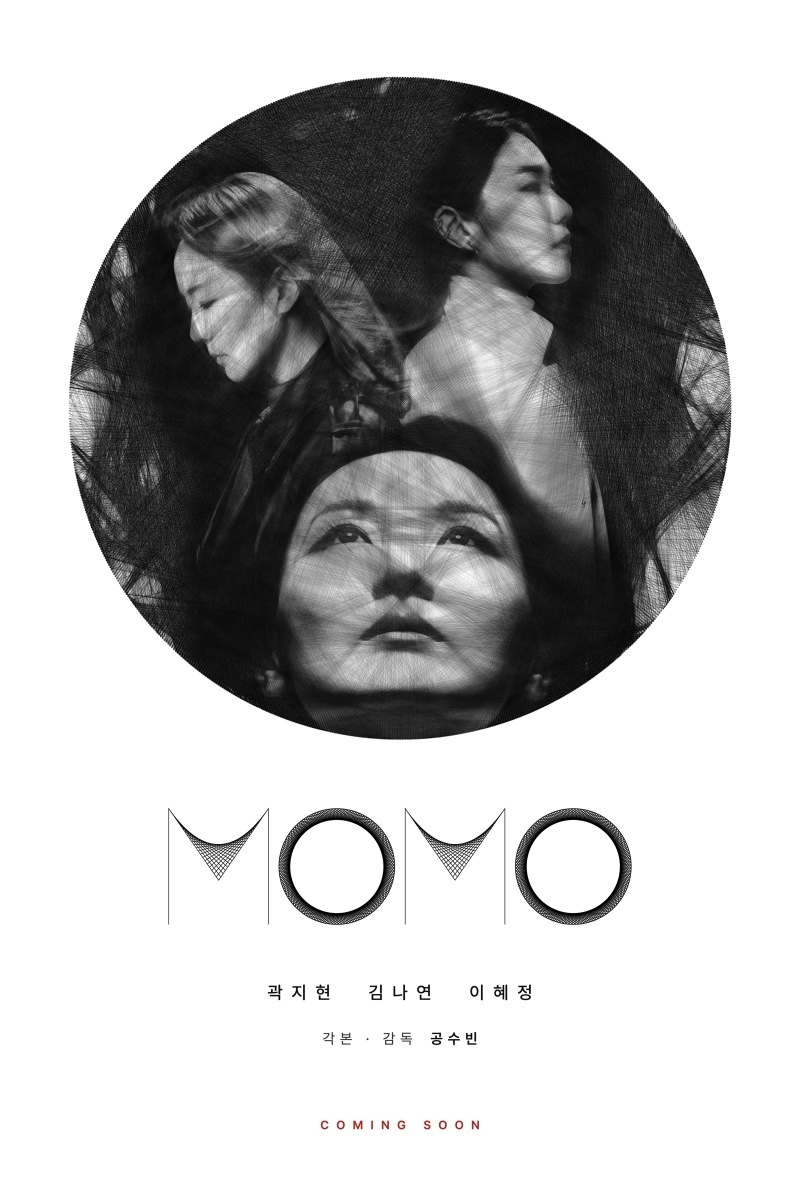
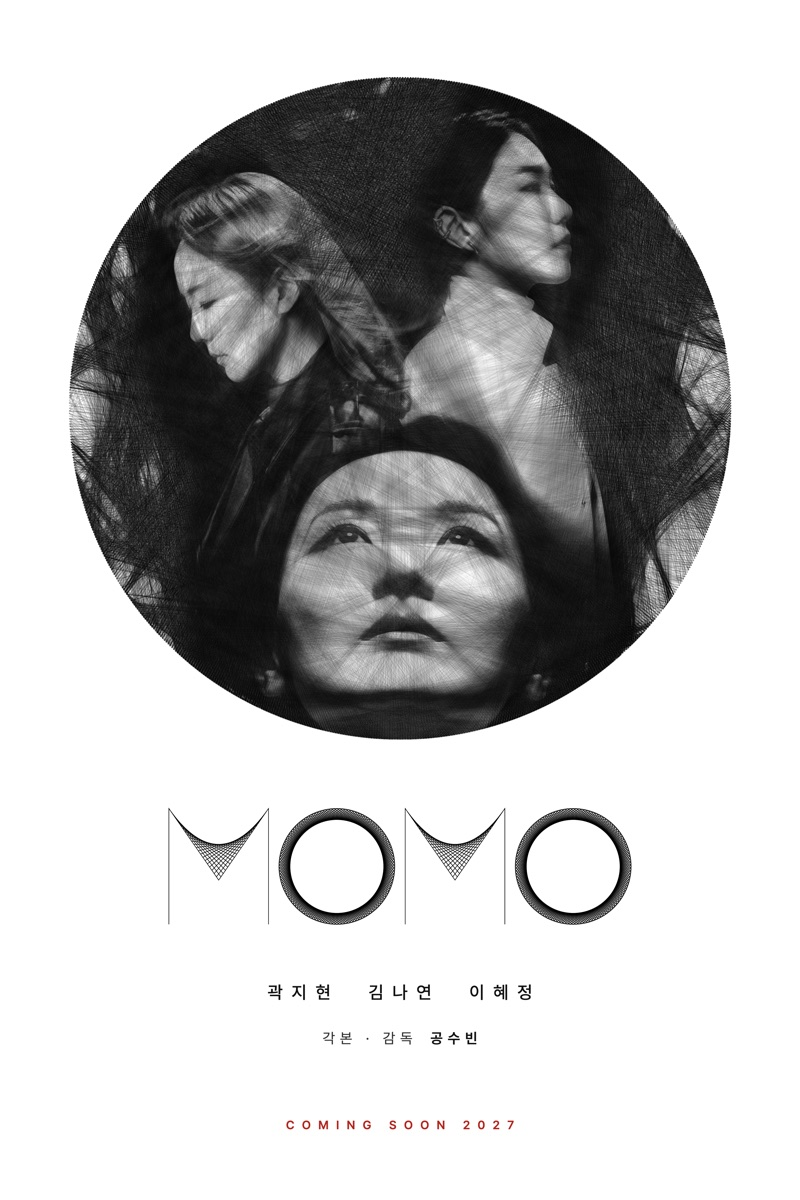
Coming Soon 2027, posters updated

diff --git a/index.html b/index.html
@@ -4,9 +4,9 @@
 <meta charset="utf-8">
 <meta name="viewport" content="width=device-width,initial-scale=1">
 <title>MOMO</title>
-<meta name="description" content="MOMO · KWAK JIHYUN  KIM NAYEON  LEE HYEJEONG · Written &amp; Directed by KONG SUBIN · Coming Soon">
+<meta name="description" content="MOMO · KWAK JIHYUN  KIM NAYEON  LEE HYEJEONG · Written &amp; Directed by KONG SUBIN · Coming Soon 2027">
 <meta property="og:title" content="MOMO">
-<meta property="og:description" content="KWAK JIHYUN · KIM NAYEON · LEE HYEJEONG · Written &amp; Directed by KONG SUBIN · COMING SOON">
+<meta property="og:description" content="KWAK JIHYUN · KIM NAYEON · LEE HYEJEONG · Written &amp; Directed by KONG SUBIN · COMING SOON 2027">
 <meta property="og:image" content="https://momothefilm.com/assets/og.jpg">
 <meta property="og:url" content="https://momothefilm.com/">
 <meta property="og:type" content="video.movie">
@@ -194,7 +194,7 @@ footer .small{margin-top:clamp(50px,7vw,90px);color:#aaa;display:flex;justify-co
   <svg xmlns="http://www.w3.org/2000/svg" viewBox="-40.0 -40.0 4070.0 1080.0" class="logo-hero" role="img" aria-label="MOMO"><g fill="none" stroke="#000000" stroke-width="5" stroke-linejoin="miter" stroke-miterlimit="12" stroke-linecap="butt"><path d="M0.00,1000.00 L0.00,0.00 L430.00,618.03 L860.00,0.00 L860.00,1000.00"/><path d="M410.45,589.94 L840.45,28.09"/><path d="M390.91,561.85 L820.91,56.18"/><path d="M371.36,533.76 L801.36,84.28"/><path d="M351.82,505.66 L781.82,112.37"/><path d="M332.27,477.57 L762.27,140.46"/><path d="M312.73,449.48 L742.73,168.55"/><path d="M293.18,421.39 L723.18,196.65"/><path d="M273.64,393.29 L703.64,224.74"/><path d="M254.09,365.20 L684.09,252.83"/><path d="M234.55,337.11 L664.55,280.92"/><path d="M215.00,309.02 L645.00,309.02"/><path d="M195.45,280.92 L625.45,337.11"/><path d="M175.91,252.83 L605.91,365.20"/><path d="M156.36,224.74 L586.36,393.29"/><path d="M136.82,196.65 L566.82,421.39"/><path d="M117.27,168.55 L547.27,449.48"/><path d="M97.73,140.46 L527.73,477.57"/><path d="M78.18,112.37 L508.18,505.66"/><path d="M58.64,84.28 L488.64,533.76"/><path d="M39.09,56.18 L469.09,561.85"/><path d="M19.55,28.09 L449.55,589.94"/><path d="M1450.00,0.00 L1476.17,0.69 L1502.26,2.74 L1528.22,6.16 L1553.96,10.93 L1579.41,17.04 L1604.51,24.47 L1629.18,33.21 L1653.37,43.23 L1677.00,54.50 L1700.00,66.99 L1722.32,80.66 L1743.89,95.49 L1764.66,111.43 L1784.57,128.43 L1803.55,146.45 L1821.57,165.43 L1838.57,185.34 L1854.51,206.11 L1869.34,227.68 L1883.01,250.00 L1895.50,273.00 L1906.77,296.63 L1916.79,320.82 L1925.53,345.49 L1932.96,370.59 L1939.07,396.04 L1943.84,421.78 L1947.26,447.74 L1949.31,473.83 L1950.00,500.00 L1949.31,526.17 L1947.26,552.26 L1943.84,578.22 L1939.07,603.96 L1932.96,629.41 L1925.53,654.51 L1916.79,679.18 L1906.77,703.37 L1895.50,727.00 L1883.01,750.00 L1869.34,772.32 L1854.51,793.89 L1838.57,814.66 L1821.57,834.57 L1803.55,853.55 L1784.57,871.57 L1764.66,888.57 L1743.89,904.51 L1722.32,919.34 L1700.00,933.01 L1677.00,945.50 L1653.37,956.77 L1629.18,966.79 L1604.51,975.53 L1579.41,982.96 L1553.96,989.07 L1528.22,993.84 L1502.26,997.26 L1476.17,999.31 L1450.00,1000.00 L1423.83,999.31 L1397.74,997.26 L1371.78,993.84 L1346.04,989.07 L1320.59,982.96 L1295.49,975.53 L1270.82,966.79 L1246.63,956.77 L1223.00,945.50 L1200.00,933.01 L1177.68,919.34 L1156.11,904.51 L1135.34,888.57 L1115.43,871.57 L1096.45,853.55 L1078.43,834.57 L1061.43,814.66 L1045.49,793.89 L1030.66,772.32 L1016.99,750.00 L1004.50,727.00 L993.23,703.37 L983.21,679.18 L974.47,654.51 L967.04,629.41 L960.93,603.96 L956.16,578.22 L952.74,552.26 L950.69,526.17 L950.00,500.00 L950.69,473.83 L952.74,447.74 L956.16,421.78 L960.93,396.04 L967.04,370.59 L974.47,345.49 L983.21,320.82 L993.23,296.63 L1004.50,273.00 L1016.99,250.00 L1030.66,227.68 L1045.49,206.11 L1061.43,185.34 L1078.43,165.43 L1096.45,146.45 L1115.43,128.43 L1135.34,111.43 L1156.11,95.49 L1177.68,80.66 L1200.00,66.99 L1223.00,54.50 L1246.63,43.23 L1270.82,33.21 L1295.49,24.47 L1320.59,17.04 L1346.04,10.93 L1371.78,6.16 L1397.74,2.74 L1423.83,0.69 L1450.00,0.00"/><path d="M1450.00,0.00 L1925.53,345.49"/><path d="M1476.17,0.69 L1932.96,370.59"/><path d="M1502.26,2.74 L1939.07,396.04"/><path d="M1528.22,6.16 L1943.84,421.78"/><path d="M1553.96,10.93 L1947.26,447.74"/><path d="M1579.41,17.04 L1949.31,473.83"/><path d="M1604.51,24.47 L1950.00,500.00"/><path d="M1629.18,33.21 L1949.31,526.17"/><path d="M1653.37,43.23 L1947.26,552.26"/><path d="M1677.00,54.50 L1943.84,578.22"/><path d="M1700.00,66.99 L1939.07,603.96"/><path d="M1722.32,80.66 L1932.96,629.41"/><path d="M1743.89,95.49 L1925.53,654.51"/><path d="M1764.66,111.43 L1916.79,679.18"/><path d="M1784.57,128.43 L1906.77,703.37"/><path d="M1803.55,146.45 L1895.50,727.00"/><path d="M1821.57,165.43 L1883.01,750.00"/><path d="M1838.57,185.34 L1869.34,772.32"/><path d="M1854.51,206.11 L1854.51,793.89"/><path d="M1869.34,227.68 L1838.57,814.66"/><path d="M1883.01,250.00 L1821.57,834.57"/><path d="M1895.50,273.00 L1803.55,853.55"/><path d="M1906.77,296.63 L1784.57,871.57"/><path d="M1916.79,320.82 L1764.66,888.57"/><path d="M1925.53,345.49 L1743.89,904.51"/><path d="M1932.96,370.59 L1722.32,919.34"/><path d="M1939.07,396.04 L1700.00,933.01"/><path d="M1943.84,421.78 L1677.00,945.50"/><path d="M1947.26,447.74 L1653.37,956.77"/><path d="M1949.31,473.83 L1629.18,966.79"/><path d="M1950.00,500.00 L1604.51,975.53"/><path d="M1949.31,526.17 L1579.41,982.96"/><path d="M1947.26,552.26 L1553.96,989.07"/><path d="M1943.84,578.22 L1528.22,993.84"/><path d="M1939.07,603.96 L1502.26,997.26"/><path d="M1932.96,629.41 L1476.17,999.31"/><path d="M1925.53,654.51 L1450.00,1000.00"/><path d="M1916.79,679.18 L1423.83,999.31"/><path d="M1906.77,703.37 L1397.74,997.26"/><path d="M1895.50,727.00 L1371.78,993.84"/><path d="M1883.01,750.00 L1346.04,989.07"/><path d="M1869.34,772.32 L1320.59,982.96"/><path d="M1854.51,793.89 L1295.49,975.53"/><path d="M1838.57,814.66 L1270.82,966.79"/><path d="M1821.57,834.57 L1246.63,956.77"/><path d="M1803.55,853.55 L1223.00,945.50"/><path d="M1784.57,871.57 L1200.00,933.01"/><path d="M1764.66,888.57 L1177.68,919.34"/><path d="M1743.89,904.51 L1156.11,904.51"/><path d="M1722.32,919.34 L1135.34,888.57"/><path d="M1700.00,933.01 L1115.43,871.57"/><path d="M1677.00,945.50 L1096.45,853.55"/><path d="M1653.37,956.77 L1078.43,834.57"/><path d="M1629.18,966.79 L1061.43,814.66"/><path d="M1604.51,975.53 L1045.49,793.89"/><path d="M1579.41,982.96 L1030.66,772.32"/><path d="M1553.96,989.07 L1016.99,750.00"/><path d="M1528.22,993.84 L1004.50,727.00"/><path d="M1502.26,997.26 L993.23,703.37"/><path d="M1476.17,999.31 L983.21,679.18"/><path d="M1450.00,1000.00 L974.47,654.51"/><path d="M1423.83,999.31 L967.04,629.41"/><path d="M1397.74,997.26 L960.93,603.96"/><path d="M1371.78,993.84 L956.16,578.22"/><path d="M1346.04,989.07 L952.74,552.26"/><path d="M1320.59,982.96 L950.69,526.17"/><path d="M1295.49,975.53 L950.00,500.00"/><path d="M1270.82,966.79 L950.69,473.83"/><path d="M1246.63,956.77 L952.74,447.74"/><path d="M1223.00,945.50 L956.16,421.78"/><path d="M1200.00,933.01 L960.93,396.04"/><path d="M1177.68,919.34 L967.04,370.59"/><path d="M1156.11,904.51 L974.47,345.49"/><path d="M1135.34,888.57 L983.21,320.82"/><path d="M1115.43,871.57 L993.23,296.63"/><path d="M1096.45,853.55 L1004.50,273.00"/><path d="M1078.43,834.57 L1016.99,250.00"/><path d="M1061.43,814.66 L1030.66,227.68"/><path d="M1045.49,793.89 L1045.49,206.11"/><path d="M1030.66,772.32 L1061.43,185.34"/><path d="M1016.99,750.00 L1078.43,165.43"/><path d="M1004.50,727.00 L1096.45,146.45"/><path d="M993.23,703.37 L1115.43,128.43"/><path d="M983.21,679.18 L1135.34,111.43"/><path d="M974.47,654.51 L1156.11,95.49"/><path d="M967.04,629.41 L1177.68,80.66"/><path d="M960.93,603.96 L1200.00,66.99"/><path d="M956.16,578.22 L1223.00,54.50"/><path d="M952.74,552.26 L1246.63,43.23"/><path d="M950.69,526.17 L1270.82,33.21"/><path d="M950.00,500.00 L1295.49,24.47"/><path d="M950.69,473.83 L1320.59,17.04"/><path d="M952.74,447.74 L1346.04,10.93"/><path d="M956.16,421.78 L1371.78,6.16"/><path d="M960.93,396.04 L1397.74,2.74"/><path d="M967.04,370.59 L1423.83,0.69"/><path d="M974.47,345.49 L1450.00,0.00"/><path d="M983.21,320.82 L1476.17,0.69"/><path d="M993.23,296.63 L1502.26,2.74"/><path d="M1004.50,273.00 L1528.22,6.16"/><path d="M1016.99,250.00 L1553.96,10.93"/><path d="M1030.66,227.68 L1579.41,17.04"/><path d="M1045.49,206.11 L1604.51,24.47"/><path d="M1061.43,185.34 L1629.18,33.21"/><path d="M1078.43,165.43 L1653.37,43.23"/><path d="M1096.45,146.45 L1677.00,54.50"/><path d="M1115.43,128.43 L1700.00,66.99"/><path d="M1135.34,111.43 L1722.32,80.66"/><path d="M1156.11,95.49 L1743.89,95.49"/><path d="M1177.68,80.66 L1764.66,111.43"/><path d="M1200.00,66.99 L1784.57,128.43"/><path d="M1223.00,54.50 L1803.55,146.45"/><path d="M1246.63,43.23 L1821.57,165.43"/><path d="M1270.82,33.21 L1838.57,185.34"/><path d="M1295.49,24.47 L1854.51,206.11"/><path d="M1320.59,17.04 L1869.34,227.68"/><path d="M1346.04,10.93 L1883.01,250.00"/><path d="M1371.78,6.16 L1895.50,273.00"/><path d="M1397.74,2.74 L1906.77,296.63"/><path d="M1423.83,0.69 L1916.79,320.82"/><path d="M2040.00,1000.00 L2040.00,0.00 L2470.00,618.03 L2900.00,0.00 L2900.00,1000.00"/><path d="M2450.45,589.94 L2880.45,28.09"/><path d="M2430.91,561.85 L2860.91,56.18"/><path d="M2411.36,533.76 L2841.36,84.28"/><path d="M2391.82,505.66 L2821.82,112.37"/><path d="M2372.27,477.57 L2802.27,140.46"/><path d="M2352.73,449.48 L2782.73,168.55"/><path d="M2333.18,421.39 L2763.18,196.65"/><path d="M2313.64,393.29 L2743.64,224.74"/><path d="M2294.09,365.20 L2724.09,252.83"/><path d="M2274.55,337.11 L2704.55,280.92"/><path d="M2255.00,309.02 L2685.00,309.02"/><path d="M2235.45,280.92 L2665.45,337.11"/><path d="M2215.91,252.83 L2645.91,365.20"/><path d="M2196.36,224.74 L2626.36,393.29"/><path d="M2176.82,196.65 L2606.82,421.39"/><path d="M2157.27,168.55 L2587.27,449.48"/><path d="M2137.73,140.46 L2567.73,477.57"/><path d="M2118.18,112.37 L2548.18,505.66"/><path d="M2098.64,84.28 L2528.64,533.76"/><path d="M2079.09,56.18 L2509.09,561.85"/><path d="M2059.55,28.09 L2489.55,589.94"/><path d="M3490.00,0.00 L3516.17,0.69 L3542.26,2.74 L3568.22,6.16 L3593.96,10.93 L3619.41,17.04 L3644.51,24.47 L3669.18,33.21 L3693.37,43.23 L3717.00,54.50 L3740.00,66.99 L3762.32,80.66 L3783.89,95.49 L3804.66,111.43 L3824.57,128.43 L3843.55,146.45 L3861.57,165.43 L3878.57,185.34 L3894.51,206.11 L3909.34,227.68 L3923.01,250.00 L3935.50,273.00 L3946.77,296.63 L3956.79,320.82 L3965.53,345.49 L3972.96,370.59 L3979.07,396.04 L3983.84,421.78 L3987.26,447.74 L3989.31,473.83 L3990.00,500.00 L3989.31,526.17 L3987.26,552.26 L3983.84,578.22 L3979.07,603.96 L3972.96,629.41 L3965.53,654.51 L3956.79,679.18 L3946.77,703.37 L3935.50,727.00 L3923.01,750.00 L3909.34,772.32 L3894.51,793.89 L3878.57,814.66 L3861.57,834.57 L3843.55,853.55 L3824.57,871.57 L3804.66,888.57 L3783.89,904.51 L3762.32,919.34 L3740.00,933.01 L3717.00,945.50 L3693.37,956.77 L3669.18,966.79 L3644.51,975.53 L3619.41,982.96 L3593.96,989.07 L3568.22,993.84 L3542.26,997.26 L3516.17,999.31 L3490.00,1000.00 L3463.83,999.31 L3437.74,997.26 L3411.78,993.84 L3386.04,989.07 L3360.59,982.96 L3335.49,975.53 L3310.82,966.79 L3286.63,956.77 L3263.00,945.50 L3240.00,933.01 L3217.68,919.34 L3196.11,904.51 L3175.34,888.57 L3155.43,871.57 L3136.45,853.55 L3118.43,834.57 L3101.43,814.66 L3085.49,793.89 L3070.66,772.32 L3056.99,750.00 L3044.50,727.00 L3033.23,703.37 L3023.21,679.18 L3014.47,654.51 L3007.04,629.41 L3000.93,603.96 L2996.16,578.22 L2992.74,552.26 L2990.69,526.17 L2990.00,500.00 L2990.69,473.83 L2992.74,447.74 L2996.16,421.78 L3000.93,396.04 L3007.04,370.59 L3014.47,345.49 L3023.21,320.82 L3033.23,296.63 L3044.50,273.00 L3056.99,250.00 L3070.66,227.68 L3085.49,206.11 L3101.43,185.34 L3118.43,165.43 L3136.45,146.45 L3155.43,128.43 L3175.34,111.43 L3196.11,95.49 L3217.68,80.66 L3240.00,66.99 L3263.00,54.50 L3286.63,43.23 L3310.82,33.21 L3335.49,24.47 L3360.59,17.04 L3386.04,10.93 L3411.78,6.16 L3437.74,2.74 L3463.83,0.69 L3490.00,0.00"/><path d="M3490.00,0.00 L3965.53,345.49"/><path d="M3516.17,0.69 L3972.96,370.59"/><path d="M3542.26,2.74 L3979.07,396.04"/><path d="M3568.22,6.16 L3983.84,421.78"/><path d="M3593.96,10.93 L3987.26,447.74"/><path d="M3619.41,17.04 L3989.31,473.83"/><path d="M3644.51,24.47 L3990.00,500.00"/><path d="M3669.18,33.21 L3989.31,526.17"/><path d="M3693.37,43.23 L3987.26,552.26"/><path d="M3717.00,54.50 L3983.84,578.22"/><path d="M3740.00,66.99 L3979.07,603.96"/><path d="M3762.32,80.66 L3972.96,629.41"/><path d="M3783.89,95.49 L3965.53,654.51"/><path d="M3804.66,111.43 L3956.79,679.18"/><path d="M3824.57,128.43 L3946.77,703.37"/><path d="M3843.55,146.45 L3935.50,727.00"/><path d="M3861.57,165.43 L3923.01,750.00"/><path d="M3878.57,185.34 L3909.34,772.32"/><path d="M3894.51,206.11 L3894.51,793.89"/><path d="M3909.34,227.68 L3878.57,814.66"/><path d="M3923.01,250.00 L3861.57,834.57"/><path d="M3935.50,273.00 L3843.55,853.55"/><path d="M3946.77,296.63 L3824.57,871.57"/><path d="M3956.79,320.82 L3804.66,888.57"/><path d="M3965.53,345.49 L3783.89,904.51"/><path d="M3972.96,370.59 L3762.32,919.34"/><path d="M3979.07,396.04 L3740.00,933.01"/><path d="M3983.84,421.78 L3717.00,945.50"/><path d="M3987.26,447.74 L3693.37,956.77"/><path d="M3989.31,473.83 L3669.18,966.79"/><path d="M3990.00,500.00 L3644.51,975.53"/><path d="M3989.31,526.17 L3619.41,982.96"/><path d="M3987.26,552.26 L3593.96,989.07"/><path d="M3983.84,578.22 L3568.22,993.84"/><path d="M3979.07,603.96 L3542.26,997.26"/><path d="M3972.96,629.41 L3516.17,999.31"/><path d="M3965.53,654.51 L3490.00,1000.00"/><path d="M3956.79,679.18 L3463.83,999.31"/><path d="M3946.77,703.37 L3437.74,997.26"/><path d="M3935.50,727.00 L3411.78,993.84"/><path d="M3923.01,750.00 L3386.04,989.07"/><path d="M3909.34,772.32 L3360.59,982.96"/><path d="M3894.51,793.89 L3335.49,975.53"/><path d="M3878.57,814.66 L3310.82,966.79"/><path d="M3861.57,834.57 L3286.63,956.77"/><path d="M3843.55,853.55 L3263.00,945.50"/><path d="M3824.57,871.57 L3240.00,933.01"/><path d="M3804.66,888.57 L3217.68,919.34"/><path d="M3783.89,904.51 L3196.11,904.51"/><path d="M3762.32,919.34 L3175.34,888.57"/><path d="M3740.00,933.01 L3155.43,871.57"/><path d="M3717.00,945.50 L3136.45,853.55"/><path d="M3693.37,956.77 L3118.43,834.57"/><path d="M3669.18,966.79 L3101.43,814.66"/><path d="M3644.51,975.53 L3085.49,793.89"/><path d="M3619.41,982.96 L3070.66,772.32"/><path d="M3593.96,989.07 L3056.99,750.00"/><path d="M3568.22,993.84 L3044.50,727.00"/><path d="M3542.26,997.26 L3033.23,703.37"/><path d="M3516.17,999.31 L3023.21,679.18"/><path d="M3490.00,1000.00 L3014.47,654.51"/><path d="M3463.83,999.31 L3007.04,629.41"/><path d="M3437.74,997.26 L3000.93,603.96"/><path d="M3411.78,993.84 L2996.16,578.22"/><path d="M3386.04,989.07 L2992.74,552.26"/><path d="M3360.59,982.96 L2990.69,526.17"/><path d="M3335.49,975.53 L2990.00,500.00"/><path d="M3310.82,966.79 L2990.69,473.83"/><path d="M3286.63,956.77 L2992.74,447.74"/><path d="M3263.00,945.50 L2996.16,421.78"/><path d="M3240.00,933.01 L3000.93,396.04"/><path d="M3217.68,919.34 L3007.04,370.59"/><path d="M3196.11,904.51 L3014.47,345.49"/><path d="M3175.34,888.57 L3023.21,320.82"/><path d="M3155.43,871.57 L3033.23,296.63"/><path d="M3136.45,853.55 L3044.50,273.00"/><path d="M3118.43,834.57 L3056.99,250.00"/><path d="M3101.43,814.66 L3070.66,227.68"/><path d="M3085.49,793.89 L3085.49,206.11"/><path d="M3070.66,772.32 L3101.43,185.34"/><path d="M3056.99,750.00 L3118.43,165.43"/><path d="M3044.50,727.00 L3136.45,146.45"/><path d="M3033.23,703.37 L3155.43,128.43"/><path d="M3023.21,679.18 L3175.34,111.43"/><path d="M3014.47,654.51 L3196.11,95.49"/><path d="M3007.04,629.41 L3217.68,80.66"/><path d="M3000.93,603.96 L3240.00,66.99"/><path d="M2996.16,578.22 L3263.00,54.50"/><path d="M2992.74,552.26 L3286.63,43.23"/><path d="M2990.69,526.17 L3310.82,33.21"/><path d="M2990.00,500.00 L3335.49,24.47"/><path d="M2990.69,473.83 L3360.59,17.04"/><path d="M2992.74,447.74 L3386.04,10.93"/><path d="M2996.16,421.78 L3411.78,6.16"/><path d="M3000.93,396.04 L3437.74,2.74"/><path d="M3007.04,370.59 L3463.83,0.69"/><path d="M3014.47,345.49 L3490.00,0.00"/><path d="M3023.21,320.82 L3516.17,0.69"/><path d="M3033.23,296.63 L3542.26,2.74"/><path d="M3044.50,273.00 L3568.22,6.16"/><path d="M3056.99,250.00 L3593.96,10.93"/><path d="M3070.66,227.68 L3619.41,17.04"/><path d="M3085.49,206.11 L3644.51,24.47"/><path d="M3101.43,185.34 L3669.18,33.21"/><path d="M3118.43,165.43 L3693.37,43.23"/><path d="M3136.45,146.45 L3717.00,54.50"/><path d="M3155.43,128.43 L3740.00,66.99"/><path d="M3175.34,111.43 L3762.32,80.66"/><path d="M3196.11,95.49 L3783.89,95.49"/><path d="M3217.68,80.66 L3804.66,111.43"/><path d="M3240.00,66.99 L3824.57,128.43"/><path d="M3263.00,54.50 L3843.55,146.45"/><path d="M3286.63,43.23 L3861.57,165.43"/><path d="M3310.82,33.21 L3878.57,185.34"/><path d="M3335.49,24.47 L3894.51,206.11"/><path d="M3360.59,17.04 L3909.34,227.68"/><path d="M3386.04,10.93 L3923.01,250.00"/><path d="M3411.78,6.16 L3935.50,273.00"/><path d="M3437.74,2.74 L3946.77,296.63"/><path d="M3463.83,0.69 L3956.79,320.82"/></g></svg>
   <div class="cast fade"><span>KWAK JIHYUN</span><span>KIM NAYEON</span><span>LEE HYEJEONG</span></div>
   <div class="dir fade">WRITTEN &amp; DIRECTED BY<b>KONG SUBIN</b></div>
-  <div class="soon fade">COMING SOON</div>
+  <div class="soon fade">COMING SOON 2027</div>
 </section>
 
 <div class="link"><i></i></div>
@@ -207,7 +207,7 @@ footer .small{margin-top:clamp(50px,7vw,90px);color:#aaa;display:flex;justify-co
     <span class="ring" id="ring"></span>
   </button>
   <div class="under rise">
-    <span class="mono soonr">Coming Soon</span>
+    <span class="mono soonr">Coming Soon 2027</span>
     <button class="mono" data-open="production">Production Film ▸</button>
   </div>
 </section>
@@ -284,7 +284,7 @@ footer .small{margin-top:clamp(50px,7vw,90px);color:#aaa;display:flex;justify-co
   <svg xmlns="http://www.w3.org/2000/svg" viewBox="-40.0 -40.0 4070.0 1080.0" class="logo-foot" role="img" aria-label="MOMO"><g fill="none" stroke="#000000" stroke-width="5" stroke-linejoin="miter" stroke-miterlimit="12" stroke-linecap="butt"><path d="M0.00,1000.00 L0.00,0.00 L430.00,618.03 L860.00,0.00 L860.00,1000.00"/><path d="M410.45,589.94 L840.45,28.09"/><path d="M390.91,561.85 L820.91,56.18"/><path d="M371.36,533.76 L801.36,84.28"/><path d="M351.82,505.66 L781.82,112.37"/><path d="M332.27,477.57 L762.27,140.46"/><path d="M312.73,449.48 L742.73,168.55"/><path d="M293.18,421.39 L723.18,196.65"/><path d="M273.64,393.29 L703.64,224.74"/><path d="M254.09,365.20 L684.09,252.83"/><path d="M234.55,337.11 L664.55,280.92"/><path d="M215.00,309.02 L645.00,309.02"/><path d="M195.45,280.92 L625.45,337.11"/><path d="M175.91,252.83 L605.91,365.20"/><path d="M156.36,224.74 L586.36,393.29"/><path d="M136.82,196.65 L566.82,421.39"/><path d="M117.27,168.55 L547.27,449.48"/><path d="M97.73,140.46 L527.73,477.57"/><path d="M78.18,112.37 L508.18,505.66"/><path d="M58.64,84.28 L488.64,533.76"/><path d="M39.09,56.18 L469.09,561.85"/><path d="M19.55,28.09 L449.55,589.94"/><path d="M1450.00,0.00 L1476.17,0.69 L1502.26,2.74 L1528.22,6.16 L1553.96,10.93 L1579.41,17.04 L1604.51,24.47 L1629.18,33.21 L1653.37,43.23 L1677.00,54.50 L1700.00,66.99 L1722.32,80.66 L1743.89,95.49 L1764.66,111.43 L1784.57,128.43 L1803.55,146.45 L1821.57,165.43 L1838.57,185.34 L1854.51,206.11 L1869.34,227.68 L1883.01,250.00 L1895.50,273.00 L1906.77,296.63 L1916.79,320.82 L1925.53,345.49 L1932.96,370.59 L1939.07,396.04 L1943.84,421.78 L1947.26,447.74 L1949.31,473.83 L1950.00,500.00 L1949.31,526.17 L1947.26,552.26 L1943.84,578.22 L1939.07,603.96 L1932.96,629.41 L1925.53,654.51 L1916.79,679.18 L1906.77,703.37 L1895.50,727.00 L1883.01,750.00 L1869.34,772.32 L1854.51,793.89 L1838.57,814.66 L1821.57,834.57 L1803.55,853.55 L1784.57,871.57 L1764.66,888.57 L1743.89,904.51 L1722.32,919.34 L1700.00,933.01 L1677.00,945.50 L1653.37,956.77 L1629.18,966.79 L1604.51,975.53 L1579.41,982.96 L1553.96,989.07 L1528.22,993.84 L1502.26,997.26 L1476.17,999.31 L1450.00,1000.00 L1423.83,999.31 L1397.74,997.26 L1371.78,993.84 L1346.04,989.07 L1320.59,982.96 L1295.49,975.53 L1270.82,966.79 L1246.63,956.77 L1223.00,945.50 L1200.00,933.01 L1177.68,919.34 L1156.11,904.51 L1135.34,888.57 L1115.43,871.57 L1096.45,853.55 L1078.43,834.57 L1061.43,814.66 L1045.49,793.89 L1030.66,772.32 L1016.99,750.00 L1004.50,727.00 L993.23,703.37 L983.21,679.18 L974.47,654.51 L967.04,629.41 L960.93,603.96 L956.16,578.22 L952.74,552.26 L950.69,526.17 L950.00,500.00 L950.69,473.83 L952.74,447.74 L956.16,421.78 L960.93,396.04 L967.04,370.59 L974.47,345.49 L983.21,320.82 L993.23,296.63 L1004.50,273.00 L1016.99,250.00 L1030.66,227.68 L1045.49,206.11 L1061.43,185.34 L1078.43,165.43 L1096.45,146.45 L1115.43,128.43 L1135.34,111.43 L1156.11,95.49 L1177.68,80.66 L1200.00,66.99 L1223.00,54.50 L1246.63,43.23 L1270.82,33.21 L1295.49,24.47 L1320.59,17.04 L1346.04,10.93 L1371.78,6.16 L1397.74,2.74 L1423.83,0.69 L1450.00,0.00"/><path d="M1450.00,0.00 L1925.53,345.49"/><path d="M1476.17,0.69 L1932.96,370.59"/><path d="M1502.26,2.74 L1939.07,396.04"/><path d="M1528.22,6.16 L1943.84,421.78"/><path d="M1553.96,10.93 L1947.26,447.74"/><path d="M1579.41,17.04 L1949.31,473.83"/><path d="M1604.51,24.47 L1950.00,500.00"/><path d="M1629.18,33.21 L1949.31,526.17"/><path d="M1653.37,43.23 L1947.26,552.26"/><path d="M1677.00,54.50 L1943.84,578.22"/><path d="M1700.00,66.99 L1939.07,603.96"/><path d="M1722.32,80.66 L1932.96,629.41"/><path d="M1743.89,95.49 L1925.53,654.51"/><path d="M1764.66,111.43 L1916.79,679.18"/><path d="M1784.57,128.43 L1906.77,703.37"/><path d="M1803.55,146.45 L1895.50,727.00"/><path d="M1821.57,165.43 L1883.01,750.00"/><path d="M1838.57,185.34 L1869.34,772.32"/><path d="M1854.51,206.11 L1854.51,793.89"/><path d="M1869.34,227.68 L1838.57,814.66"/><path d="M1883.01,250.00 L1821.57,834.57"/><path d="M1895.50,273.00 L1803.55,853.55"/><path d="M1906.77,296.63 L1784.57,871.57"/><path d="M1916.79,320.82 L1764.66,888.57"/><path d="M1925.53,345.49 L1743.89,904.51"/><path d="M1932.96,370.59 L1722.32,919.34"/><path d="M1939.07,396.04 L1700.00,933.01"/><path d="M1943.84,421.78 L1677.00,945.50"/><path d="M1947.26,447.74 L1653.37,956.77"/><path d="M1949.31,473.83 L1629.18,966.79"/><path d="M1950.00,500.00 L1604.51,975.53"/><path d="M1949.31,526.17 L1579.41,982.96"/><path d="M1947.26,552.26 L1553.96,989.07"/><path d="M1943.84,578.22 L1528.22,993.84"/><path d="M1939.07,603.96 L1502.26,997.26"/><path d="M1932.96,629.41 L1476.17,999.31"/><path d="M1925.53,654.51 L1450.00,1000.00"/><path d="M1916.79,679.18 L1423.83,999.31"/><path d="M1906.77,703.37 L1397.74,997.26"/><path d="M1895.50,727.00 L1371.78,993.84"/><path d="M1883.01,750.00 L1346.04,989.07"/><path d="M1869.34,772.32 L1320.59,982.96"/><path d="M1854.51,793.89 L1295.49,975.53"/><path d="M1838.57,814.66 L1270.82,966.79"/><path d="M1821.57,834.57 L1246.63,956.77"/><path d="M1803.55,853.55 L1223.00,945.50"/><path d="M1784.57,871.57 L1200.00,933.01"/><path d="M1764.66,888.57 L1177.68,919.34"/><path d="M1743.89,904.51 L1156.11,904.51"/><path d="M1722.32,919.34 L1135.34,888.57"/><path d="M1700.00,933.01 L1115.43,871.57"/><path d="M1677.00,945.50 L1096.45,853.55"/><path d="M1653.37,956.77 L1078.43,834.57"/><path d="M1629.18,966.79 L1061.43,814.66"/><path d="M1604.51,975.53 L1045.49,793.89"/><path d="M1579.41,982.96 L1030.66,772.32"/><path d="M1553.96,989.07 L1016.99,750.00"/><path d="M1528.22,993.84 L1004.50,727.00"/><path d="M1502.26,997.26 L993.23,703.37"/><path d="M1476.17,999.31 L983.21,679.18"/><path d="M1450.00,1000.00 L974.47,654.51"/><path d="M1423.83,999.31 L967.04,629.41"/><path d="M1397.74,997.26 L960.93,603.96"/><path d="M1371.78,993.84 L956.16,578.22"/><path d="M1346.04,989.07 L952.74,552.26"/><path d="M1320.59,982.96 L950.69,526.17"/><path d="M1295.49,975.53 L950.00,500.00"/><path d="M1270.82,966.79 L950.69,473.83"/><path d="M1246.63,956.77 L952.74,447.74"/><path d="M1223.00,945.50 L956.16,421.78"/><path d="M1200.00,933.01 L960.93,396.04"/><path d="M1177.68,919.34 L967.04,370.59"/><path d="M1156.11,904.51 L974.47,345.49"/><path d="M1135.34,888.57 L983.21,320.82"/><path d="M1115.43,871.57 L993.23,296.63"/><path d="M1096.45,853.55 L1004.50,273.00"/><path d="M1078.43,834.57 L1016.99,250.00"/><path d="M1061.43,814.66 L1030.66,227.68"/><path d="M1045.49,793.89 L1045.49,206.11"/><path d="M1030.66,772.32 L1061.43,185.34"/><path d="M1016.99,750.00 L1078.43,165.43"/><path d="M1004.50,727.00 L1096.45,146.45"/><path d="M993.23,703.37 L1115.43,128.43"/><path d="M983.21,679.18 L1135.34,111.43"/><path d="M974.47,654.51 L1156.11,95.49"/><path d="M967.04,629.41 L1177.68,80.66"/><path d="M960.93,603.96 L1200.00,66.99"/><path d="M956.16,578.22 L1223.00,54.50"/><path d="M952.74,552.26 L1246.63,43.23"/><path d="M950.69,526.17 L1270.82,33.21"/><path d="M950.00,500.00 L1295.49,24.47"/><path d="M950.69,473.83 L1320.59,17.04"/><path d="M952.74,447.74 L1346.04,10.93"/><path d="M956.16,421.78 L1371.78,6.16"/><path d="M960.93,396.04 L1397.74,2.74"/><path d="M967.04,370.59 L1423.83,0.69"/><path d="M974.47,345.49 L1450.00,0.00"/><path d="M983.21,320.82 L1476.17,0.69"/><path d="M993.23,296.63 L1502.26,2.74"/><path d="M1004.50,273.00 L1528.22,6.16"/><path d="M1016.99,250.00 L1553.96,10.93"/><path d="M1030.66,227.68 L1579.41,17.04"/><path d="M1045.49,206.11 L1604.51,24.47"/><path d="M1061.43,185.34 L1629.18,33.21"/><path d="M1078.43,165.43 L1653.37,43.23"/><path d="M1096.45,146.45 L1677.00,54.50"/><path d="M1115.43,128.43 L1700.00,66.99"/><path d="M1135.34,111.43 L1722.32,80.66"/><path d="M1156.11,95.49 L1743.89,95.49"/><path d="M1177.68,80.66 L1764.66,111.43"/><path d="M1200.00,66.99 L1784.57,128.43"/><path d="M1223.00,54.50 L1803.55,146.45"/><path d="M1246.63,43.23 L1821.57,165.43"/><path d="M1270.82,33.21 L1838.57,185.34"/><path d="M1295.49,24.47 L1854.51,206.11"/><path d="M1320.59,17.04 L1869.34,227.68"/><path d="M1346.04,10.93 L1883.01,250.00"/><path d="M1371.78,6.16 L1895.50,273.00"/><path d="M1397.74,2.74 L1906.77,296.63"/><path d="M1423.83,0.69 L1916.79,320.82"/><path d="M2040.00,1000.00 L2040.00,0.00 L2470.00,618.03 L2900.00,0.00 L2900.00,1000.00"/><path d="M2450.45,589.94 L2880.45,28.09"/><path d="M2430.91,561.85 L2860.91,56.18"/><path d="M2411.36,533.76 L2841.36,84.28"/><path d="M2391.82,505.66 L2821.82,112.37"/><path d="M2372.27,477.57 L2802.27,140.46"/><path d="M2352.73,449.48 L2782.73,168.55"/><path d="M2333.18,421.39 L2763.18,196.65"/><path d="M2313.64,393.29 L2743.64,224.74"/><path d="M2294.09,365.20 L2724.09,252.83"/><path d="M2274.55,337.11 L2704.55,280.92"/><path d="M2255.00,309.02 L2685.00,309.02"/><path d="M2235.45,280.92 L2665.45,337.11"/><path d="M2215.91,252.83 L2645.91,365.20"/><path d="M2196.36,224.74 L2626.36,393.29"/><path d="M2176.82,196.65 L2606.82,421.39"/><path d="M2157.27,168.55 L2587.27,449.48"/><path d="M2137.73,140.46 L2567.73,477.57"/><path d="M2118.18,112.37 L2548.18,505.66"/><path d="M2098.64,84.28 L2528.64,533.76"/><path d="M2079.09,56.18 L2509.09,561.85"/><path d="M2059.55,28.09 L2489.55,589.94"/><path d="M3490.00,0.00 L3516.17,0.69 L3542.26,2.74 L3568.22,6.16 L3593.96,10.93 L3619.41,17.04 L3644.51,24.47 L3669.18,33.21 L3693.37,43.23 L3717.00,54.50 L3740.00,66.99 L3762.32,80.66 L3783.89,95.49 L3804.66,111.43 L3824.57,128.43 L3843.55,146.45 L3861.57,165.43 L3878.57,185.34 L3894.51,206.11 L3909.34,227.68 L3923.01,250.00 L3935.50,273.00 L3946.77,296.63 L3956.79,320.82 L3965.53,345.49 L3972.96,370.59 L3979.07,396.04 L3983.84,421.78 L3987.26,447.74 L3989.31,473.83 L3990.00,500.00 L3989.31,526.17 L3987.26,552.26 L3983.84,578.22 L3979.07,603.96 L3972.96,629.41 L3965.53,654.51 L3956.79,679.18 L3946.77,703.37 L3935.50,727.00 L3923.01,750.00 L3909.34,772.32 L3894.51,793.89 L3878.57,814.66 L3861.57,834.57 L3843.55,853.55 L3824.57,871.57 L3804.66,888.57 L3783.89,904.51 L3762.32,919.34 L3740.00,933.01 L3717.00,945.50 L3693.37,956.77 L3669.18,966.79 L3644.51,975.53 L3619.41,982.96 L3593.96,989.07 L3568.22,993.84 L3542.26,997.26 L3516.17,999.31 L3490.00,1000.00 L3463.83,999.31 L3437.74,997.26 L3411.78,993.84 L3386.04,989.07 L3360.59,982.96 L3335.49,975.53 L3310.82,966.79 L3286.63,956.77 L3263.00,945.50 L3240.00,933.01 L3217.68,919.34 L3196.11,904.51 L3175.34,888.57 L3155.43,871.57 L3136.45,853.55 L3118.43,834.57 L3101.43,814.66 L3085.49,793.89 L3070.66,772.32 L3056.99,750.00 L3044.50,727.00 L3033.23,703.37 L3023.21,679.18 L3014.47,654.51 L3007.04,629.41 L3000.93,603.96 L2996.16,578.22 L2992.74,552.26 L2990.69,526.17 L2990.00,500.00 L2990.69,473.83 L2992.74,447.74 L2996.16,421.78 L3000.93,396.04 L3007.04,370.59 L3014.47,345.49 L3023.21,320.82 L3033.23,296.63 L3044.50,273.00 L3056.99,250.00 L3070.66,227.68 L3085.49,206.11 L3101.43,185.34 L3118.43,165.43 L3136.45,146.45 L3155.43,128.43 L3175.34,111.43 L3196.11,95.49 L3217.68,80.66 L3240.00,66.99 L3263.00,54.50 L3286.63,43.23 L3310.82,33.21 L3335.49,24.47 L3360.59,17.04 L3386.04,10.93 L3411.78,6.16 L3437.74,2.74 L3463.83,0.69 L3490.00,0.00"/><path d="M3490.00,0.00 L3965.53,345.49"/><path d="M3516.17,0.69 L3972.96,370.59"/><path d="M3542.26,2.74 L3979.07,396.04"/><path d="M3568.22,6.16 L3983.84,421.78"/><path d="M3593.96,10.93 L3987.26,447.74"/><path d="M3619.41,17.04 L3989.31,473.83"/><path d="M3644.51,24.47 L3990.00,500.00"/><path d="M3669.18,33.21 L3989.31,526.17"/><path d="M3693.37,43.23 L3987.26,552.26"/><path d="M3717.00,54.50 L3983.84,578.22"/><path d="M3740.00,66.99 L3979.07,603.96"/><path d="M3762.32,80.66 L3972.96,629.41"/><path d="M3783.89,95.49 L3965.53,654.51"/><path d="M3804.66,111.43 L3956.79,679.18"/><path d="M3824.57,128.43 L3946.77,703.37"/><path d="M3843.55,146.45 L3935.50,727.00"/><path d="M3861.57,165.43 L3923.01,750.00"/><path d="M3878.57,185.34 L3909.34,772.32"/><path d="M3894.51,206.11 L3894.51,793.89"/><path d="M3909.34,227.68 L3878.57,814.66"/><path d="M3923.01,250.00 L3861.57,834.57"/><path d="M3935.50,273.00 L3843.55,853.55"/><path d="M3946.77,296.63 L3824.57,871.57"/><path d="M3956.79,320.82 L3804.66,888.57"/><path d="M3965.53,345.49 L3783.89,904.51"/><path d="M3972.96,370.59 L3762.32,919.34"/><path d="M3979.07,396.04 L3740.00,933.01"/><path d="M3983.84,421.78 L3717.00,945.50"/><path d="M3987.26,447.74 L3693.37,956.77"/><path d="M3989.31,473.83 L3669.18,966.79"/><path d="M3990.00,500.00 L3644.51,975.53"/><path d="M3989.31,526.17 L3619.41,982.96"/><path d="M3987.26,552.26 L3593.96,989.07"/><path d="M3983.84,578.22 L3568.22,993.84"/><path d="M3979.07,603.96 L3542.26,997.26"/><path d="M3972.96,629.41 L3516.17,999.31"/><path d="M3965.53,654.51 L3490.00,1000.00"/><path d="M3956.79,679.18 L3463.83,999.31"/><path d="M3946.77,703.37 L3437.74,997.26"/><path d="M3935.50,727.00 L3411.78,993.84"/><path d="M3923.01,750.00 L3386.04,989.07"/><path d="M3909.34,772.32 L3360.59,982.96"/><path d="M3894.51,793.89 L3335.49,975.53"/><path d="M3878.57,814.66 L3310.82,966.79"/><path d="M3861.57,834.57 L3286.63,956.77"/><path d="M3843.55,853.55 L3263.00,945.50"/><path d="M3824.57,871.57 L3240.00,933.01"/><path d="M3804.66,888.57 L3217.68,919.34"/><path d="M3783.89,904.51 L3196.11,904.51"/><path d="M3762.32,919.34 L3175.34,888.57"/><path d="M3740.00,933.01 L3155.43,871.57"/><path d="M3717.00,945.50 L3136.45,853.55"/><path d="M3693.37,956.77 L3118.43,834.57"/><path d="M3669.18,966.79 L3101.43,814.66"/><path d="M3644.51,975.53 L3085.49,793.89"/><path d="M3619.41,982.96 L3070.66,772.32"/><path d="M3593.96,989.07 L3056.99,750.00"/><path d="M3568.22,993.84 L3044.50,727.00"/><path d="M3542.26,997.26 L3033.23,703.37"/><path d="M3516.17,999.31 L3023.21,679.18"/><path d="M3490.00,1000.00 L3014.47,654.51"/><path d="M3463.83,999.31 L3007.04,629.41"/><path d="M3437.74,997.26 L3000.93,603.96"/><path d="M3411.78,993.84 L2996.16,578.22"/><path d="M3386.04,989.07 L2992.74,552.26"/><path d="M3360.59,982.96 L2990.69,526.17"/><path d="M3335.49,975.53 L2990.00,500.00"/><path d="M3310.82,966.79 L2990.69,473.83"/><path d="M3286.63,956.77 L2992.74,447.74"/><path d="M3263.00,945.50 L2996.16,421.78"/><path d="M3240.00,933.01 L3000.93,396.04"/><path d="M3217.68,919.34 L3007.04,370.59"/><path d="M3196.11,904.51 L3014.47,345.49"/><path d="M3175.34,888.57 L3023.21,320.82"/><path d="M3155.43,871.57 L3033.23,296.63"/><path d="M3136.45,853.55 L3044.50,273.00"/><path d="M3118.43,834.57 L3056.99,250.00"/><path d="M3101.43,814.66 L3070.66,227.68"/><path d="M3085.49,793.89 L3085.49,206.11"/><path d="M3070.66,772.32 L3101.43,185.34"/><path d="M3056.99,750.00 L3118.43,165.43"/><path d="M3044.50,727.00 L3136.45,146.45"/><path d="M3033.23,703.37 L3155.43,128.43"/><path d="M3023.21,679.18 L3175.34,111.43"/><path d="M3014.47,654.51 L3196.11,95.49"/><path d="M3007.04,629.41 L3217.68,80.66"/><path d="M3000.93,603.96 L3240.00,66.99"/><path d="M2996.16,578.22 L3263.00,54.50"/><path d="M2992.74,552.26 L3286.63,43.23"/><path d="M2990.69,526.17 L3310.82,33.21"/><path d="M2990.00,500.00 L3335.49,24.47"/><path d="M2990.69,473.83 L3360.59,17.04"/><path d="M2992.74,447.74 L3386.04,10.93"/><path d="M2996.16,421.78 L3411.78,6.16"/><path d="M3000.93,396.04 L3437.74,2.74"/><path d="M3007.04,370.59 L3463.83,0.69"/><path d="M3014.47,345.49 L3490.00,0.00"/><path d="M3023.21,320.82 L3516.17,0.69"/><path d="M3033.23,296.63 L3542.26,2.74"/><path d="M3044.50,273.00 L3568.22,6.16"/><path d="M3056.99,250.00 L3593.96,10.93"/><path d="M3070.66,227.68 L3619.41,17.04"/><path d="M3085.49,206.11 L3644.51,24.47"/><path d="M3101.43,185.34 L3669.18,33.21"/><path d="M3118.43,165.43 L3693.37,43.23"/><path d="M3136.45,146.45 L3717.00,54.50"/><path d="M3155.43,128.43 L3740.00,66.99"/><path d="M3175.34,111.43 L3762.32,80.66"/><path d="M3196.11,95.49 L3783.89,95.49"/><path d="M3217.68,80.66 L3804.66,111.43"/><path d="M3240.00,66.99 L3824.57,128.43"/><path d="M3263.00,54.50 L3843.55,146.45"/><path d="M3286.63,43.23 L3861.57,165.43"/><path d="M3310.82,33.21 L3878.57,185.34"/><path d="M3335.49,24.47 L3894.51,206.11"/><path d="M3360.59,17.04 L3909.34,227.68"/><path d="M3386.04,10.93 L3923.01,250.00"/><path d="M3411.78,6.16 L3935.50,273.00"/><path d="M3437.74,2.74 L3946.77,296.63"/><path d="M3463.83,0.69 L3956.79,320.82"/></g></svg>
   <div class="cast"><span>KWAK JIHYUN</span><span>KIM NAYEON</span><span>LEE HYEJEONG</span></div>
   <div class="dir">WRITTEN &amp; DIRECTED BY<b>KONG SUBIN</b></div>
-  <div class="soon">COMING SOON</div>
+  <div class="soon">COMING SOON 2027</div>
   <div class="small mono"><span>© 2026 MOMO</span><span>momothefilm.com</span></div>
 </footer>
 
@@ -476,7 +476,7 @@ footer .small{margin-top:clamp(50px,7vw,90px);color:#aaa;display:flex;justify-co
   function openVideo(k){
     box.innerHTML = k === 'production'
       ? '<iframe src="https://www.youtube-nocookie.com/embed/aTgoJSRJC6Q?autoplay=1&rel=0" title="MOMO production film" allow="autoplay; encrypted-media; picture-in-picture; fullscreen" allowfullscreen></iframe>'
-      : '<div class="wait" style="background-image:url(assets/thumb_trailer.jpg)"><span class="mono">Official Trailer</span><span class="mono" style="color:#ff7a6e">Coming Soon</span></div>';
+      : '<div class="wait" style="background-image:url(assets/thumb_trailer.jpg)"><span class="mono">Official Trailer</span><span class="mono" style="color:#ff7a6e">Coming Soon 2027</span></div>';
     modal.classList.add('open'); document.body.style.overflow = 'hidden';
   }
   function closeVideo(){ modal.classList.remove('open'); box.innerHTML = ''; document.body.style.overflow = ''; }
